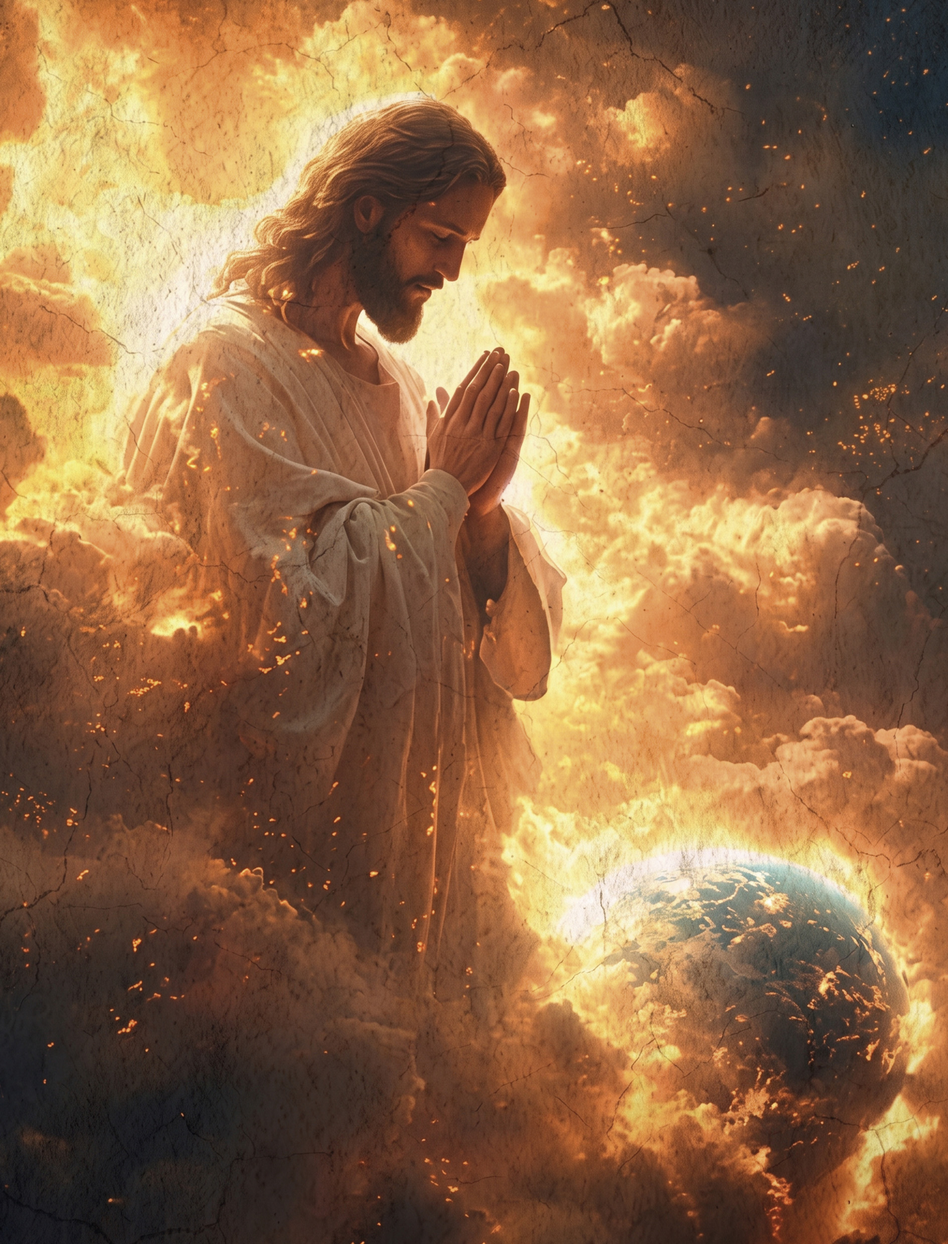
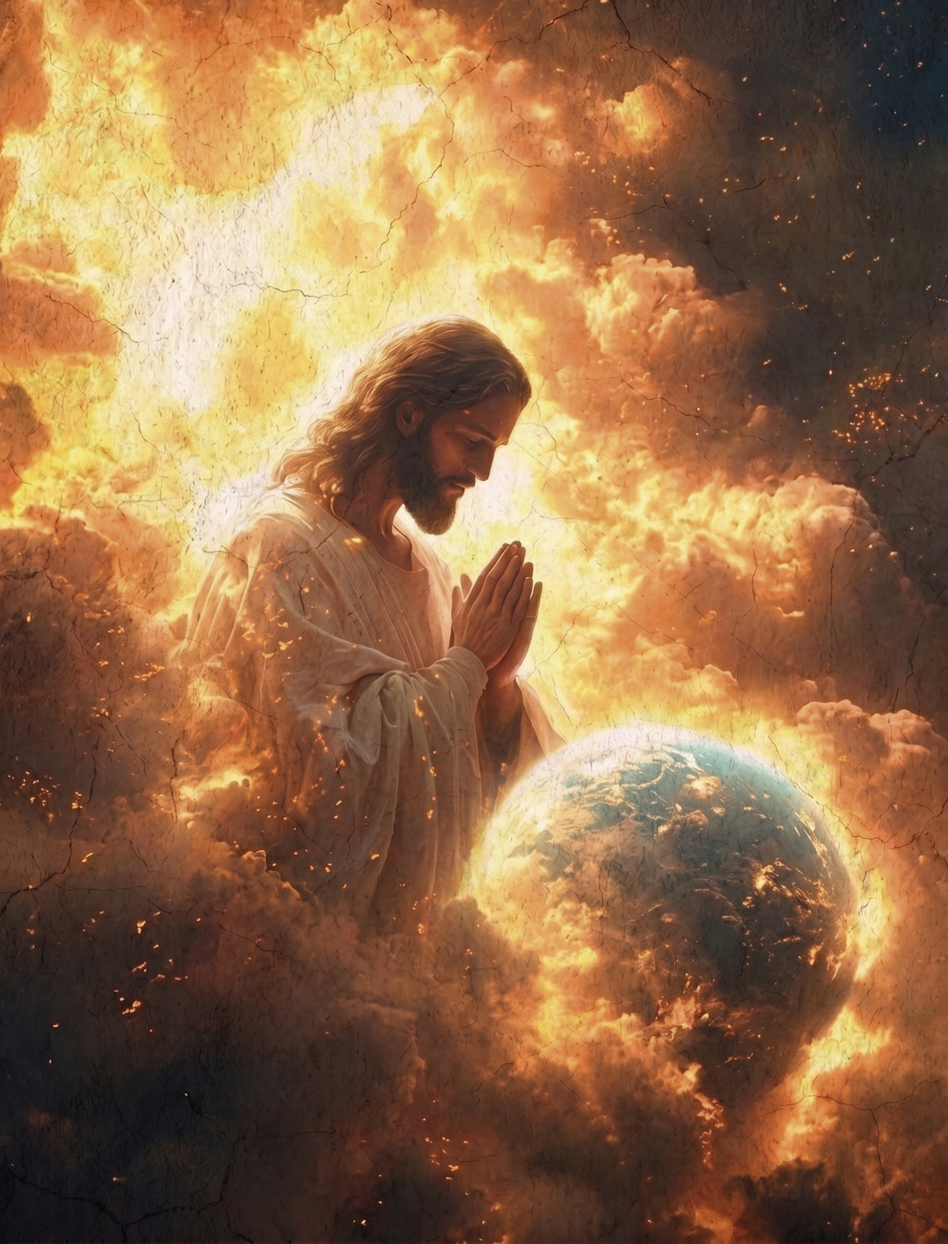
Add files via upload

diff --git a/index.html b/index.html
@@ -105,7 +105,7 @@ $(document).ready(function() {
     }
 
     // 4. Задний форзац (JPG)
-    addPage('обл_вн.jpg');
+addPage('обл_последняя.jpg'); // текст молитвы в конце
 
     // 5. Задняя обложка (JPG)
     addPage('обл_2.jpg');
